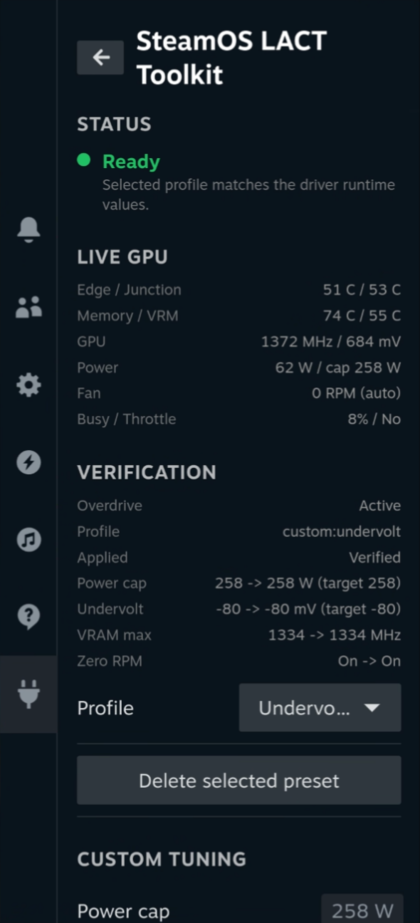
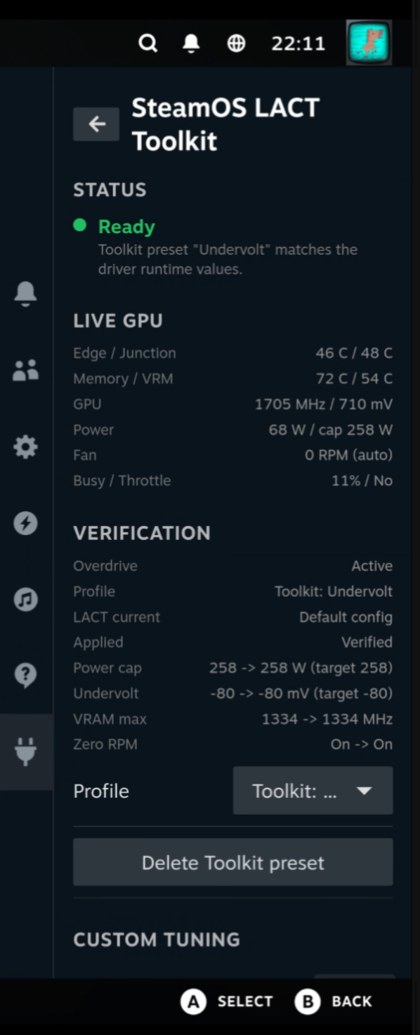
Update README screenshots

diff --git a/README.md b/README.md
@@ -13,8 +13,8 @@ This project contains:
 ## Screenshots
 
 <p>
-  <img src="screenshots/status.png?v=2" alt="SteamOS LACT Toolkit status and verification view" width="48%">
-  <img src="screenshots/tuning.png?v=2" alt="SteamOS LACT Toolkit custom tuning controls" width="48%">
+  <img src="screenshots/status.png?v=3" alt="SteamOS LACT Toolkit status and verification view" width="48%">
+  <img src="screenshots/tuning.png?v=3" alt="SteamOS LACT Toolkit custom tuning and fan controls" width="48%">
 </p>
 
 ## What It Does